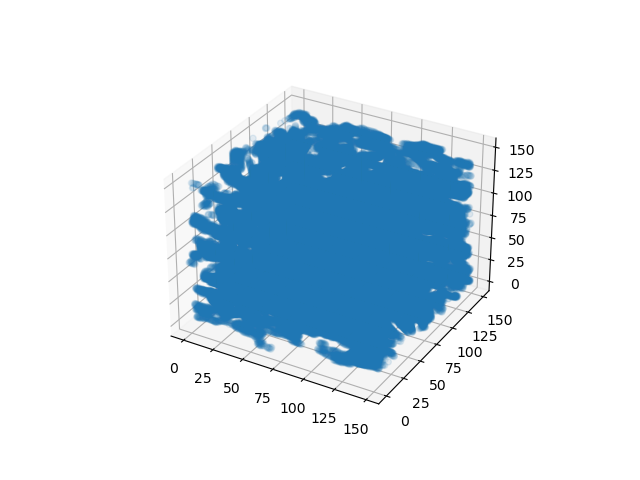
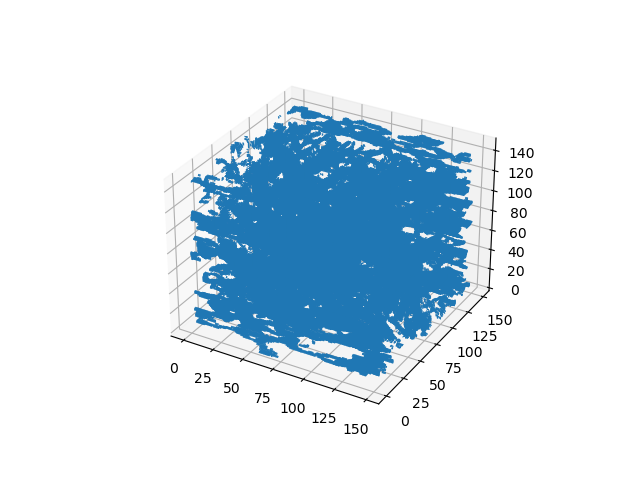
d

Changed region(s): [[0.25, 0.1875, 0.8438, 0.7812], [0.5, 0.3438, 0.5312, 0.375], [0.375, 0.5, 0.4062, 0.5312]]

diff --git a/visualizer-morten.py b/visualizer-morten.py
@@ -6,68 +6,43 @@ from time import perf_counter
 
 # Measre start time
 start = perf_counter()
-
-
+# Load data
 shape_measure = np.load('shape_measure.npy')
 best_direction = np.load('best_direction.npy')
-
-place_holder = np.ones((shape_measure.shape[0], shape_measure.shape[1], shape_measure.shape[2]), dtype=bool)
-# mask = np.argmax(shape_measure, axis=3) == 0
-# print(np.shape(mask))
-mask = shape_measure[:,:,:,0] > 0.5
-mask = mask.astype(bool)
-# new_mask = np.zeros_like(mask)
-# new_mask[mask == 0] = 1
-# place_holders = np.reshape(place_holder * new_mask, place_holder.shape).astype(bool)
-# print(place_holders[0,0])
-
-test_array = np.stack([mask, mask,mask], axis=3).reshape(np.shape(best_direction)[0],np.shape(best_direction)[1],np.shape(best_direction)[2],-1).astype(bool)
-best_direction = best_direction[test_array].reshape(-1,3)
-
-max_rgb = np.max(np.abs(best_direction))
-cr = (max_rgb + best_direction[:,0]) / (2*max_rgb)
-cg = (max_rgb + best_direction[:,1]) / (2*max_rgb)
-cb = (max_rgb + best_direction[:,2]) / (2*max_rgb)
-
-
-
-# test = zip(cr.ravel(), cg.ravel(), cb.ravel())
-# print(np.array(test).shape)
-
-colorspace = [(r,b,g) for r,b,g in zip(cr.ravel(), cg.ravel(), cb.ravel())]
-place_holder[mask == False] = False
-
-
-# print(np.shape(colorspace))
-# print(np.shape(test_array))
-# print(colorspace[mask,:])
-
-# print(np.shape(colorspace[test_array]))
-
-# COLORMAP PLAYTIME
-cmap = cm.get_cmap('viridis', 3)  
 
 ##########
 # 1st plot
 ##########
+
+place_holder = np.ones((shape_measure.shape[0], shape_measure.shape[1], shape_measure.shape[2]), dtype=bool)
+mask = shape_measure[:,:,:,0] > 0.5
+
+test_array = np.stack([mask, mask,mask], axis=3).astype(bool)
+color_dir = best_direction[test_array].reshape(-1,3)
+
+
+# Define the colors to be plotted 
+max_rgb = np.max(np.abs(color_dir))
+cr = (max_rgb + color_dir[:,0]) / (2*max_rgb)
+cg = (max_rgb + color_dir[:,1]) / (2*max_rgb)
+cb = (max_rgb + color_dir[:,2]) / (2*max_rgb)
+# Stack 'em high
+colorspace = [(r,b,g) for r,b,g in zip(cr.ravel(), cg.ravel(), cb.ravel())]
+place_holder[mask == False] = False
+
+
 fig = plt.figure()
 ax = fig.add_subplot(projection='3d')
 sp = ax.scatter(*np.where(mask), c=colorspace, s=0.2, alpha=1)
-# To add a colorbar, we dont want the alpha-value to affect the colorbar, so we will plot points not in image
-# p = ax.scatter([900,900,900], [900,900,900], [900,900,900], c=[0,1,2], cmap=cmap)
-# cbar = fig.colorbar(sp, ax=ax, ticks=[0.33, 1, 1.66], alpha=1)
-# cbar.ax.set_yticklabels(['Linearity', 'Planarity', 'Sphericity'])
-# Now we have to cut out the parts we dont want to see...
 ax.set_xlim(-10,160)
 ax.set_ylim(-10, 160)
 ax.set_zlim(-10, 160)
 # Save figure. This takes time (i think because it has so many points?). This part is roughly 70 times as time-consuming as the rest.
-plt.savefig('shape_measures.png')
+plt.savefig('Linearity.png')
 print(f"1st plot took: {perf_counter() - start} sec")
 
 
 
-quit()
 ##########
 # 2nd plot - Quiver for Linearity
 ##########
